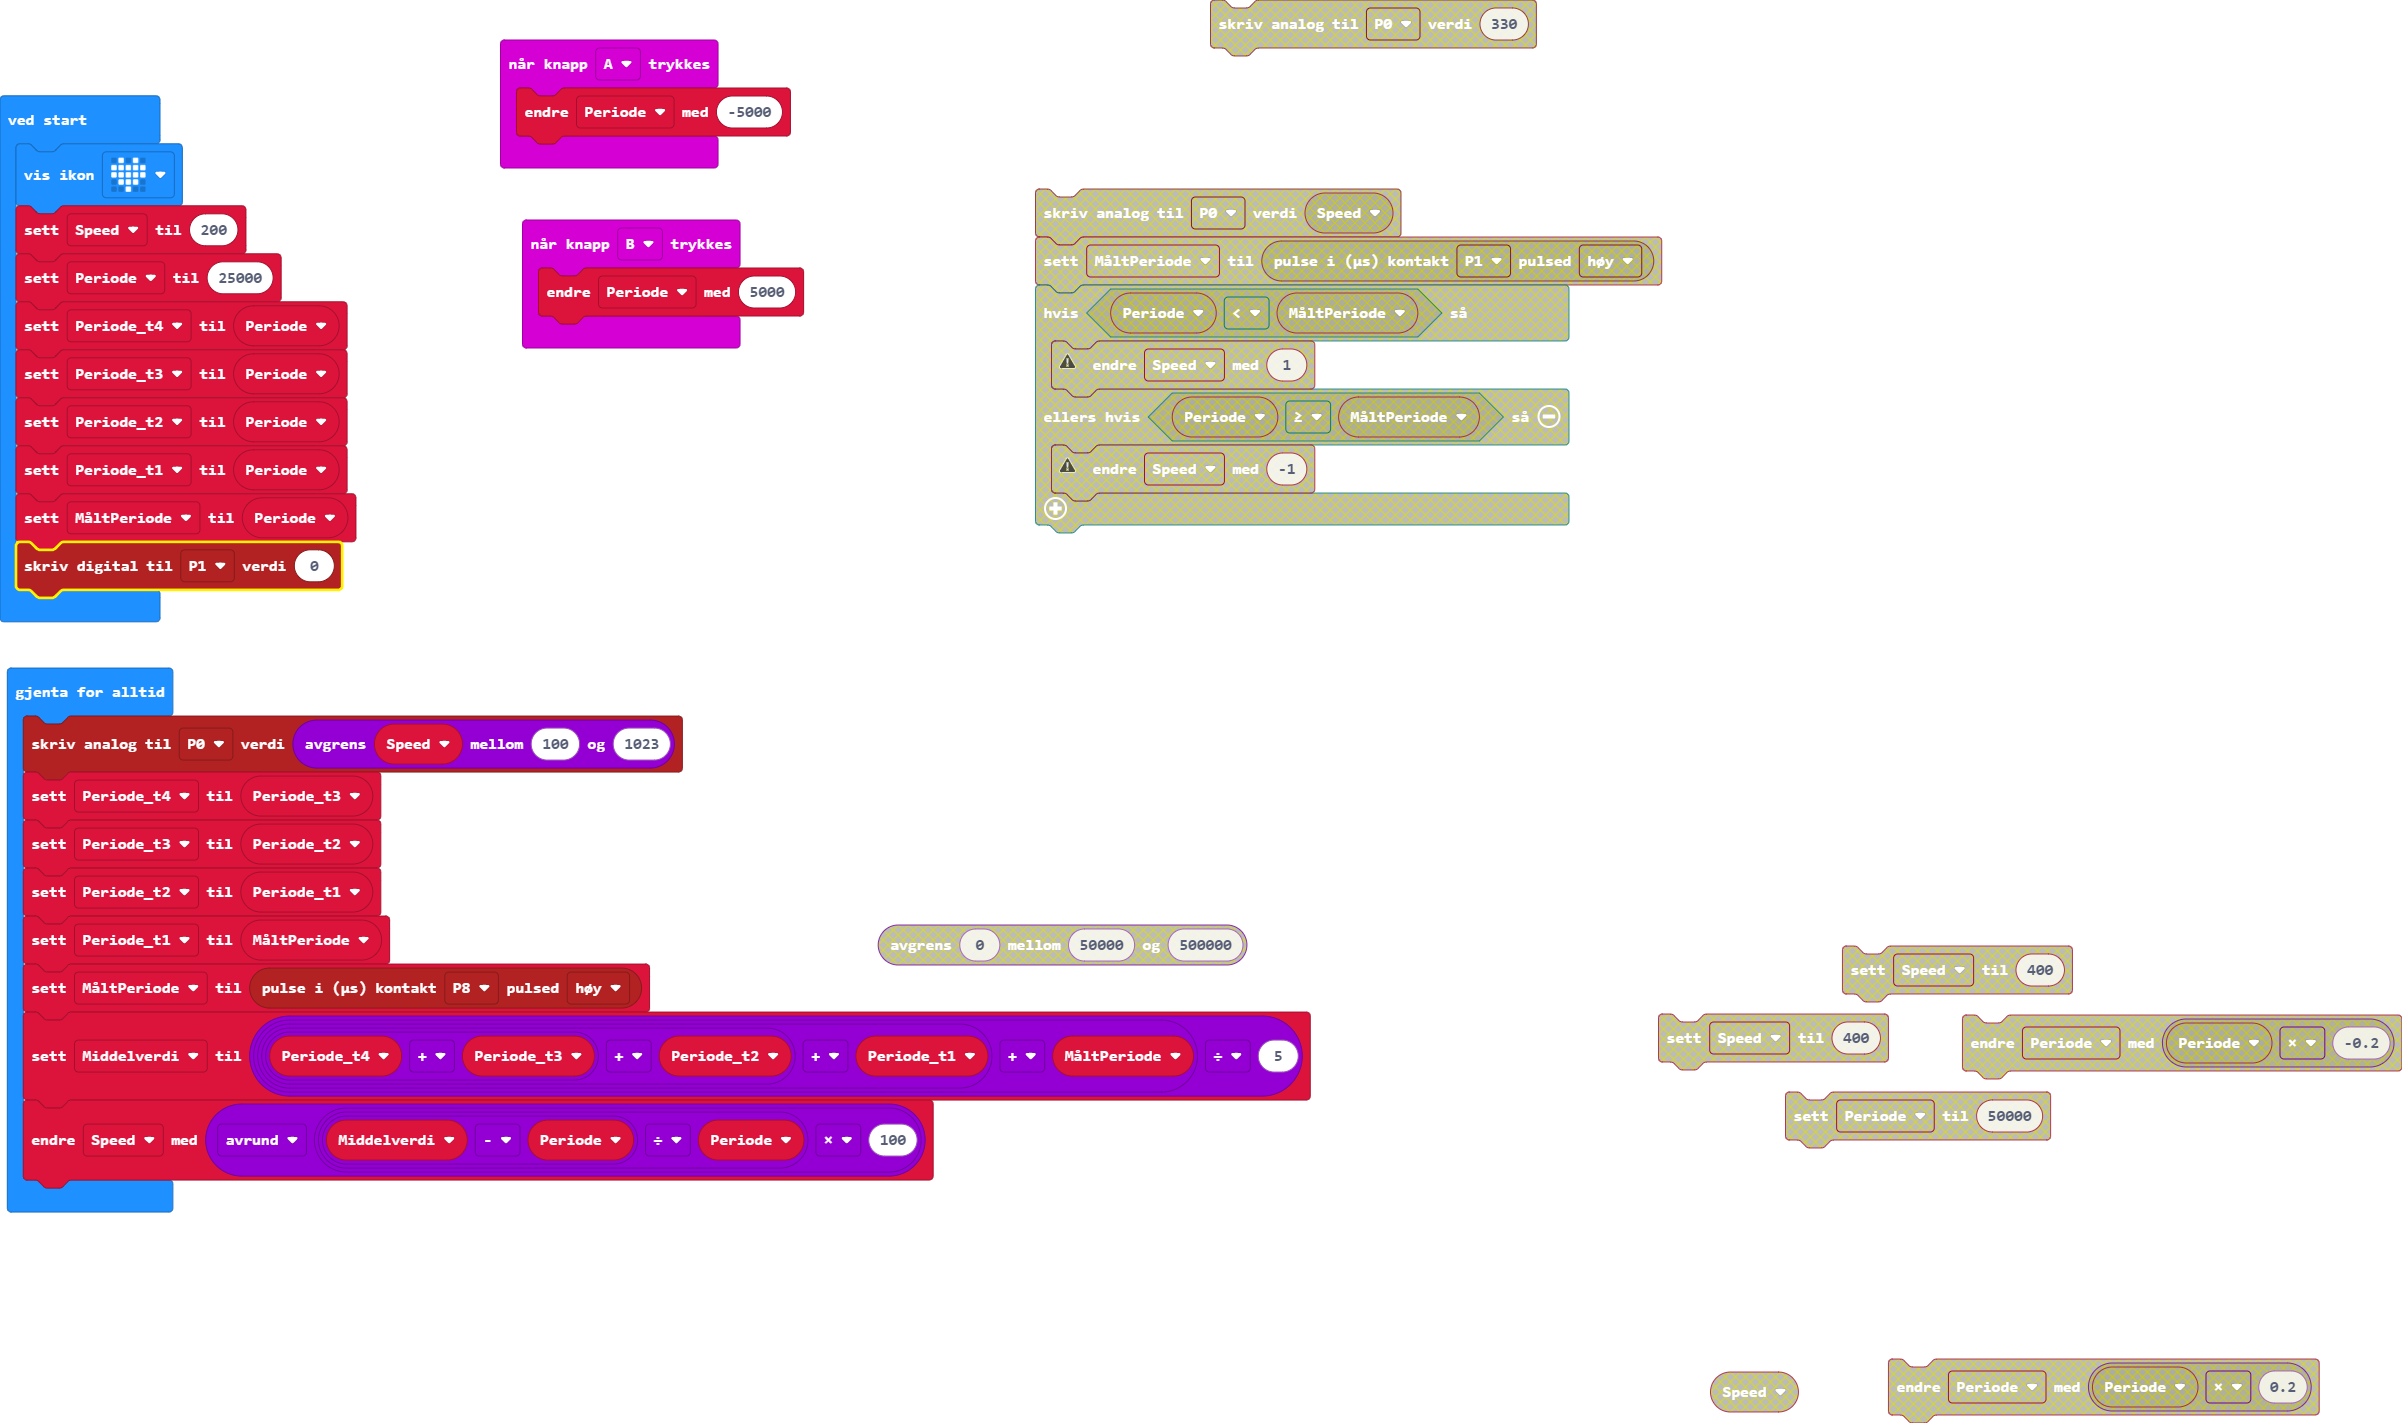
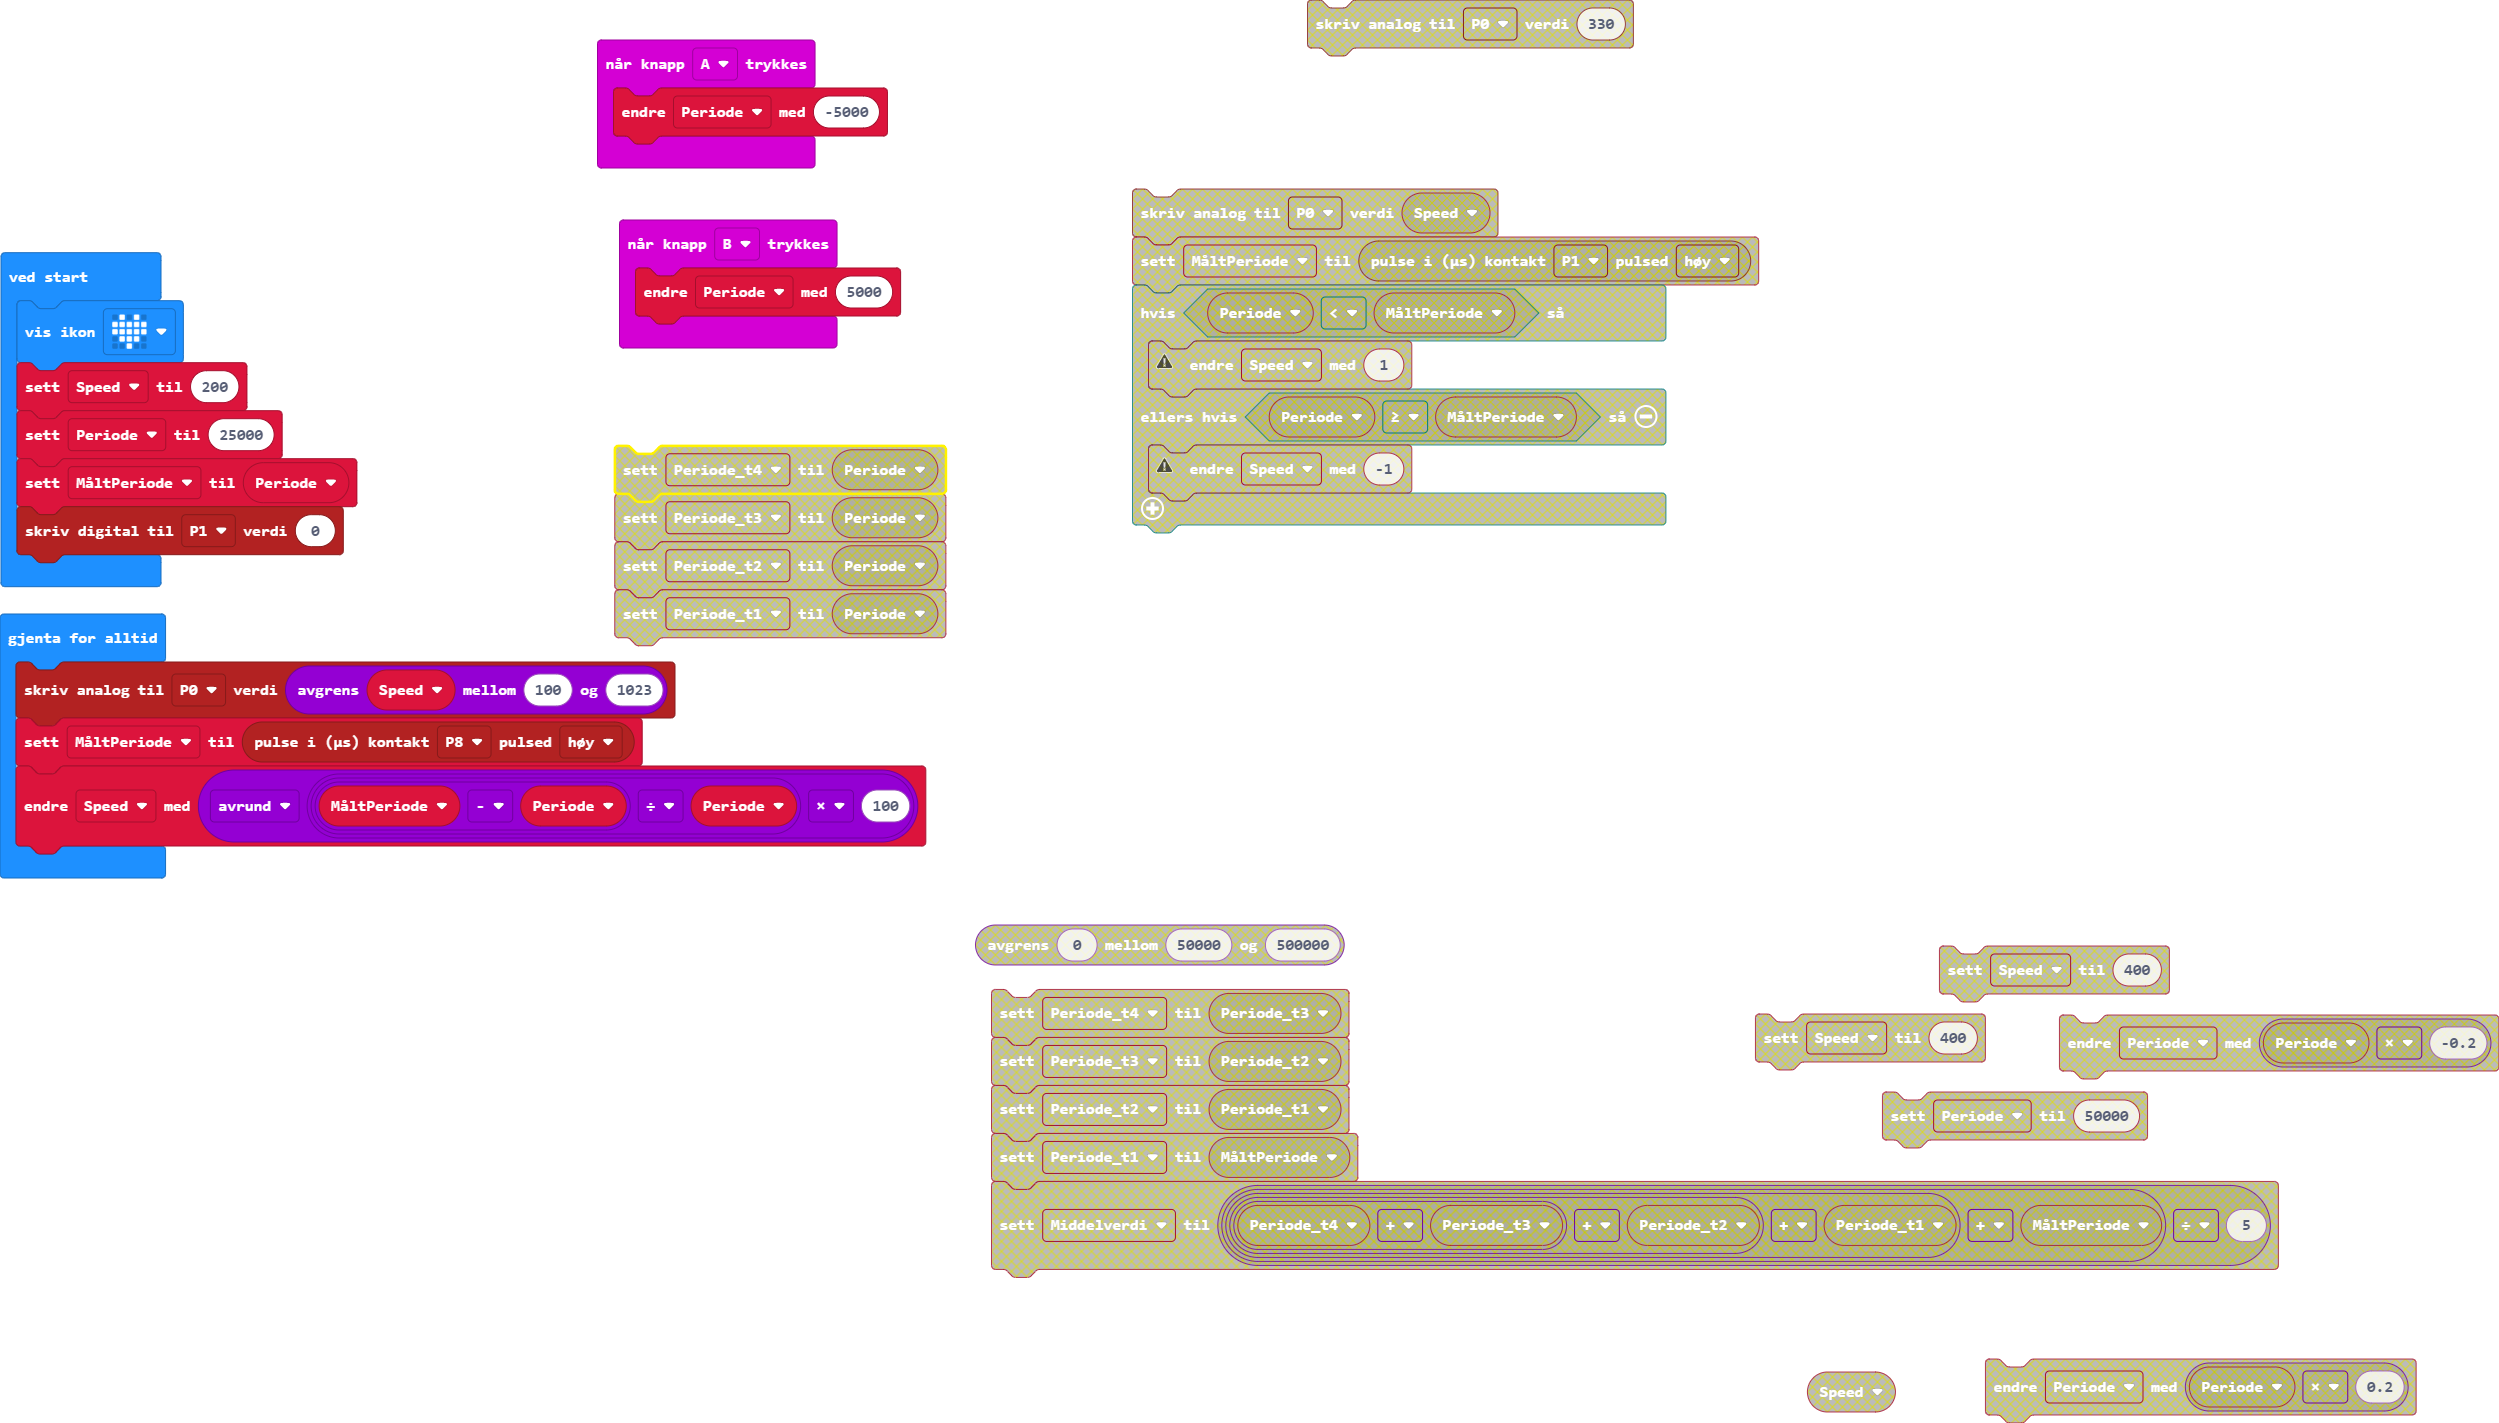
Oppdater main.blocks, main.ts

diff --git a/main.ts b/main.ts
@@ -4,23 +4,13 @@ input.onButtonPressed(Button.A, function () {
 input.onButtonPressed(Button.B, function () {
     Periode += 5000
 })
-let Middelverdi = 0
 basic.showIcon(IconNames.Heart)
 let Speed = 200
 let Periode = 25000
-let Periode_t4 = Periode
-let Periode_t3 = Periode
-let Periode_t2 = Periode
-let Periode_t1 = Periode
 let MåltPeriode = Periode
 pins.digitalWritePin(DigitalPin.P1, 0)
 basic.forever(function () {
     pins.analogWritePin(AnalogPin.P0, Math.constrain(Speed, 100, 1023))
-    Periode_t4 = Periode_t3
-    Periode_t3 = Periode_t2
-    Periode_t2 = Periode_t1
-    Periode_t1 = MåltPeriode
     MåltPeriode = pins.pulseIn(DigitalPin.P8, PulseValue.High)
-    Middelverdi = (Periode_t4 + Periode_t3 + Periode_t2 + Periode_t1 + MåltPeriode) / 5
-    Speed += Math.round((Middelverdi - Periode) / Periode * 100)
+    Speed += Math.round((MåltPeriode - Periode) / Periode * 100)
 })
